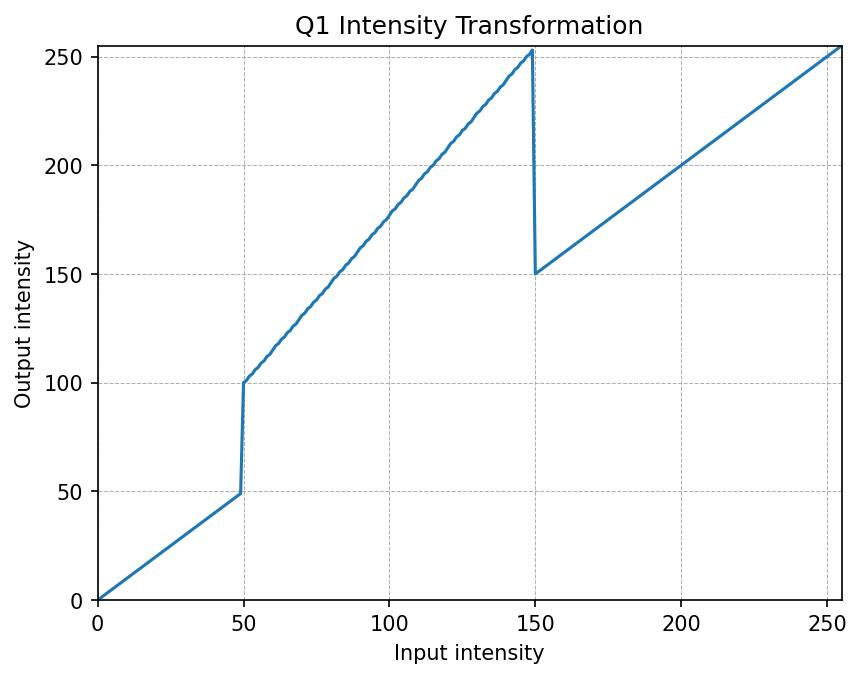
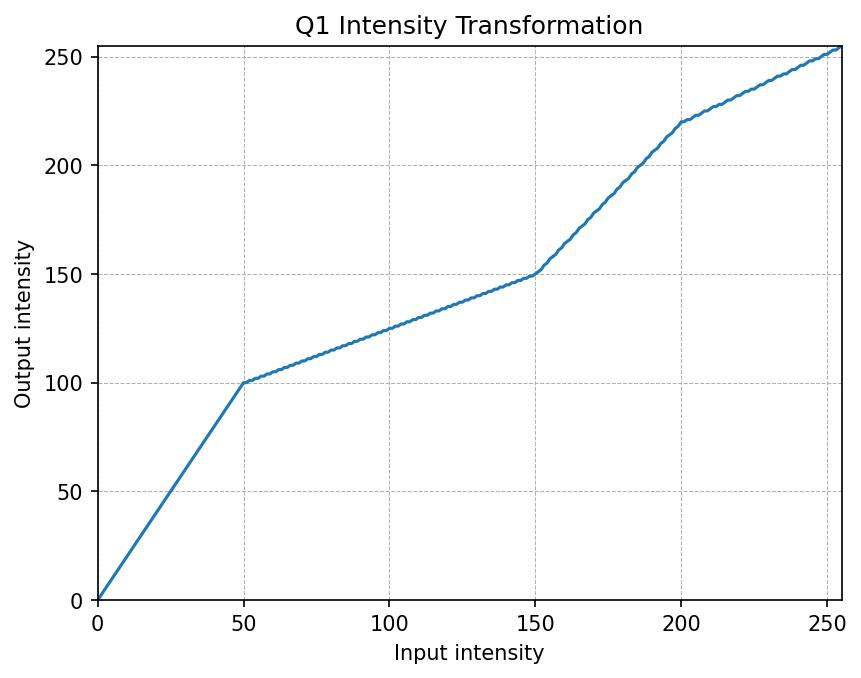
Updated docs

diff --git a/q1.py b/q1.py
@@ -2,24 +2,37 @@
 import os
 import cv2
 import numpy as np
-import matplotlib.pyplot as plt
 from utils import (
     load_gray, save_img, 
     plot_transfer, 
-    apply_lut, 
-    intensity_map_from_points
+    apply_lut
 )
 
 IN_PATH = "docs/q1_images/input/emma.jpg"
-control_points = [(0,0),(50, 50),(50, 100),(150, 255),(150, 150),(255,255)]
+
+# Fixed control points
+control_points = [(0,0),(50,100),(150,150),(200,220),(255,255)]
+
+def build_lut(points):
+    xs = [p[0] for p in points]
+    ys = [p[1] for p in points]
+    lut = np.interp(np.arange(256), xs, ys).astype(np.uint8)
+    return lut
+
 def main():
     img = load_gray(IN_PATH)
-    lut = intensity_map_from_points(control_points)
+    lut = build_lut(control_points)
     mapped = apply_lut(img, lut)
+
+
     x = np.arange(256); y = lut
-    plot_transfer(x, y, "Q1 Intensity Transformation", "docs/q1_images/output/emma_intensity_transformation.jpg")
+    plot_transfer(x, y, "Q1 Intensity Transformation", 
+                  "docs/q1_images/output/emma_intensity_transformation.jpg")
+
     save_img("docs/q1_images/output/emma_original.jpg", img)
     save_img("docs/q1_images/output/emma_mapped.jpg", mapped)
+
     print("Q1 done.")
+
 if __name__ == "__main__":
     main()
